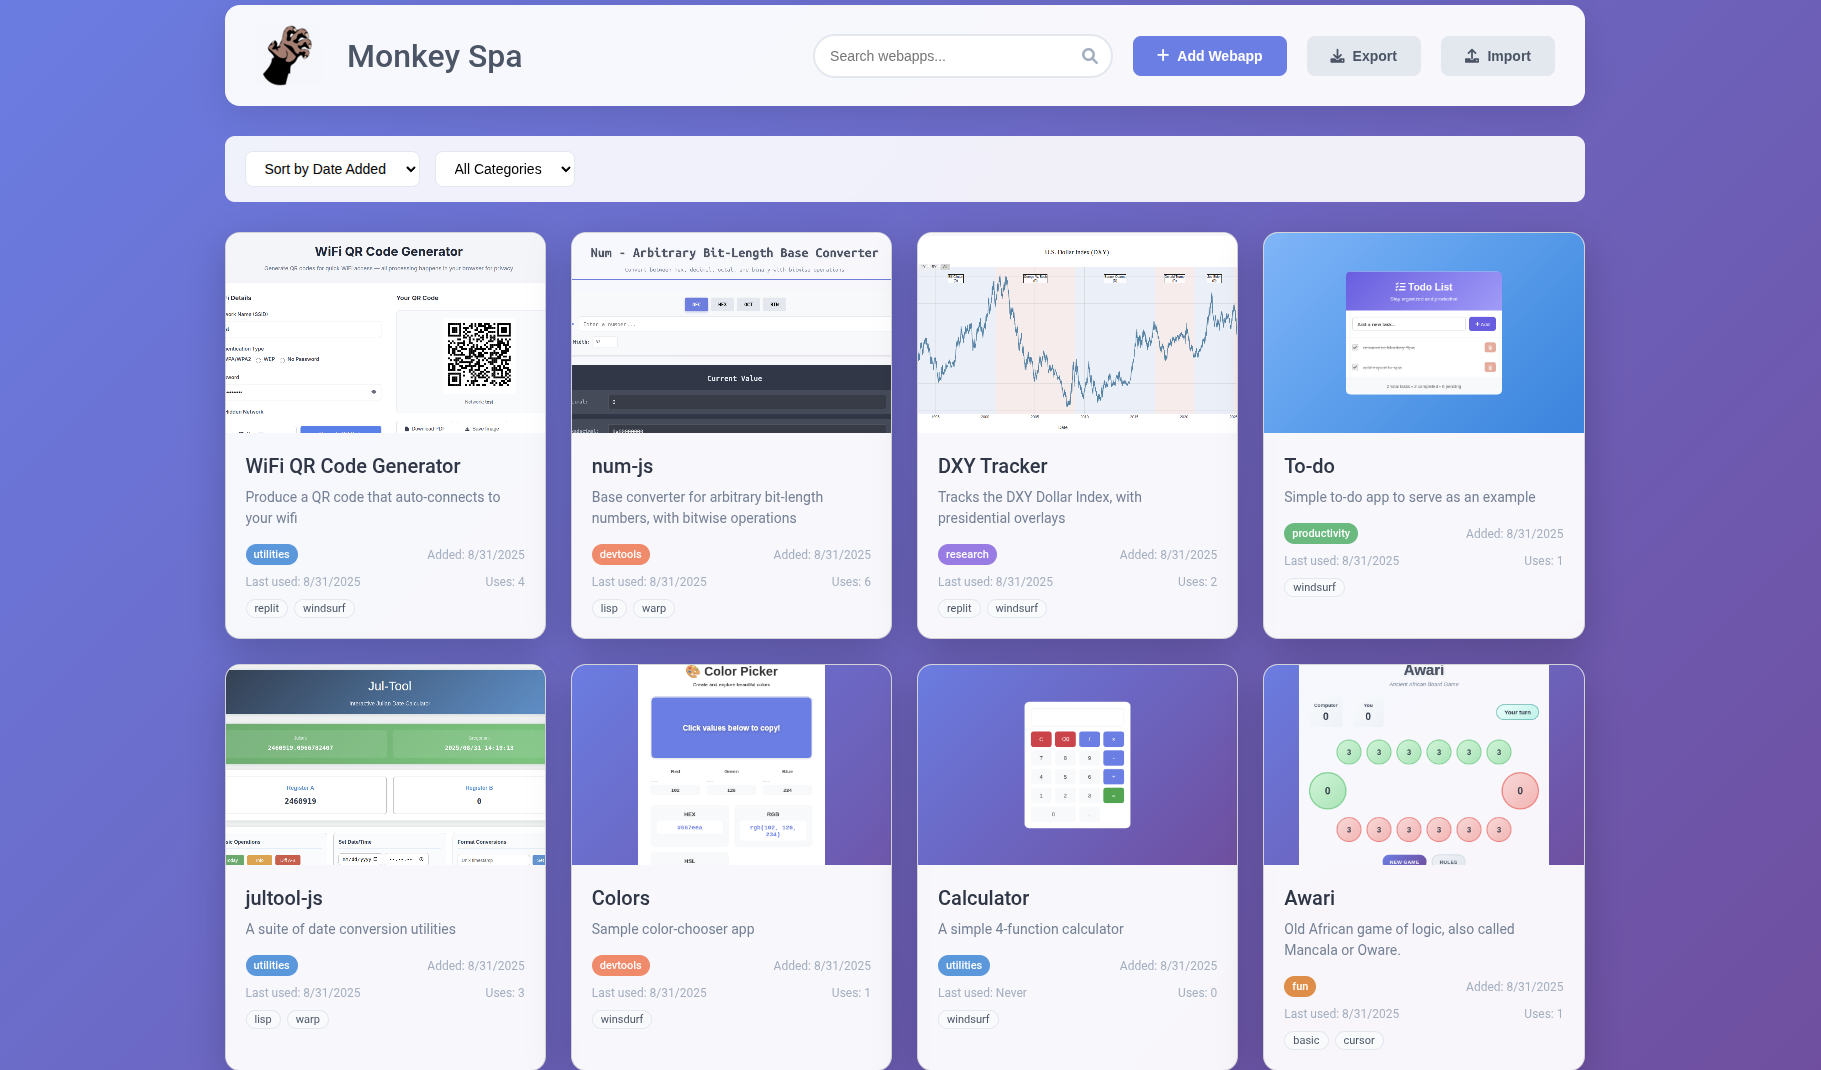
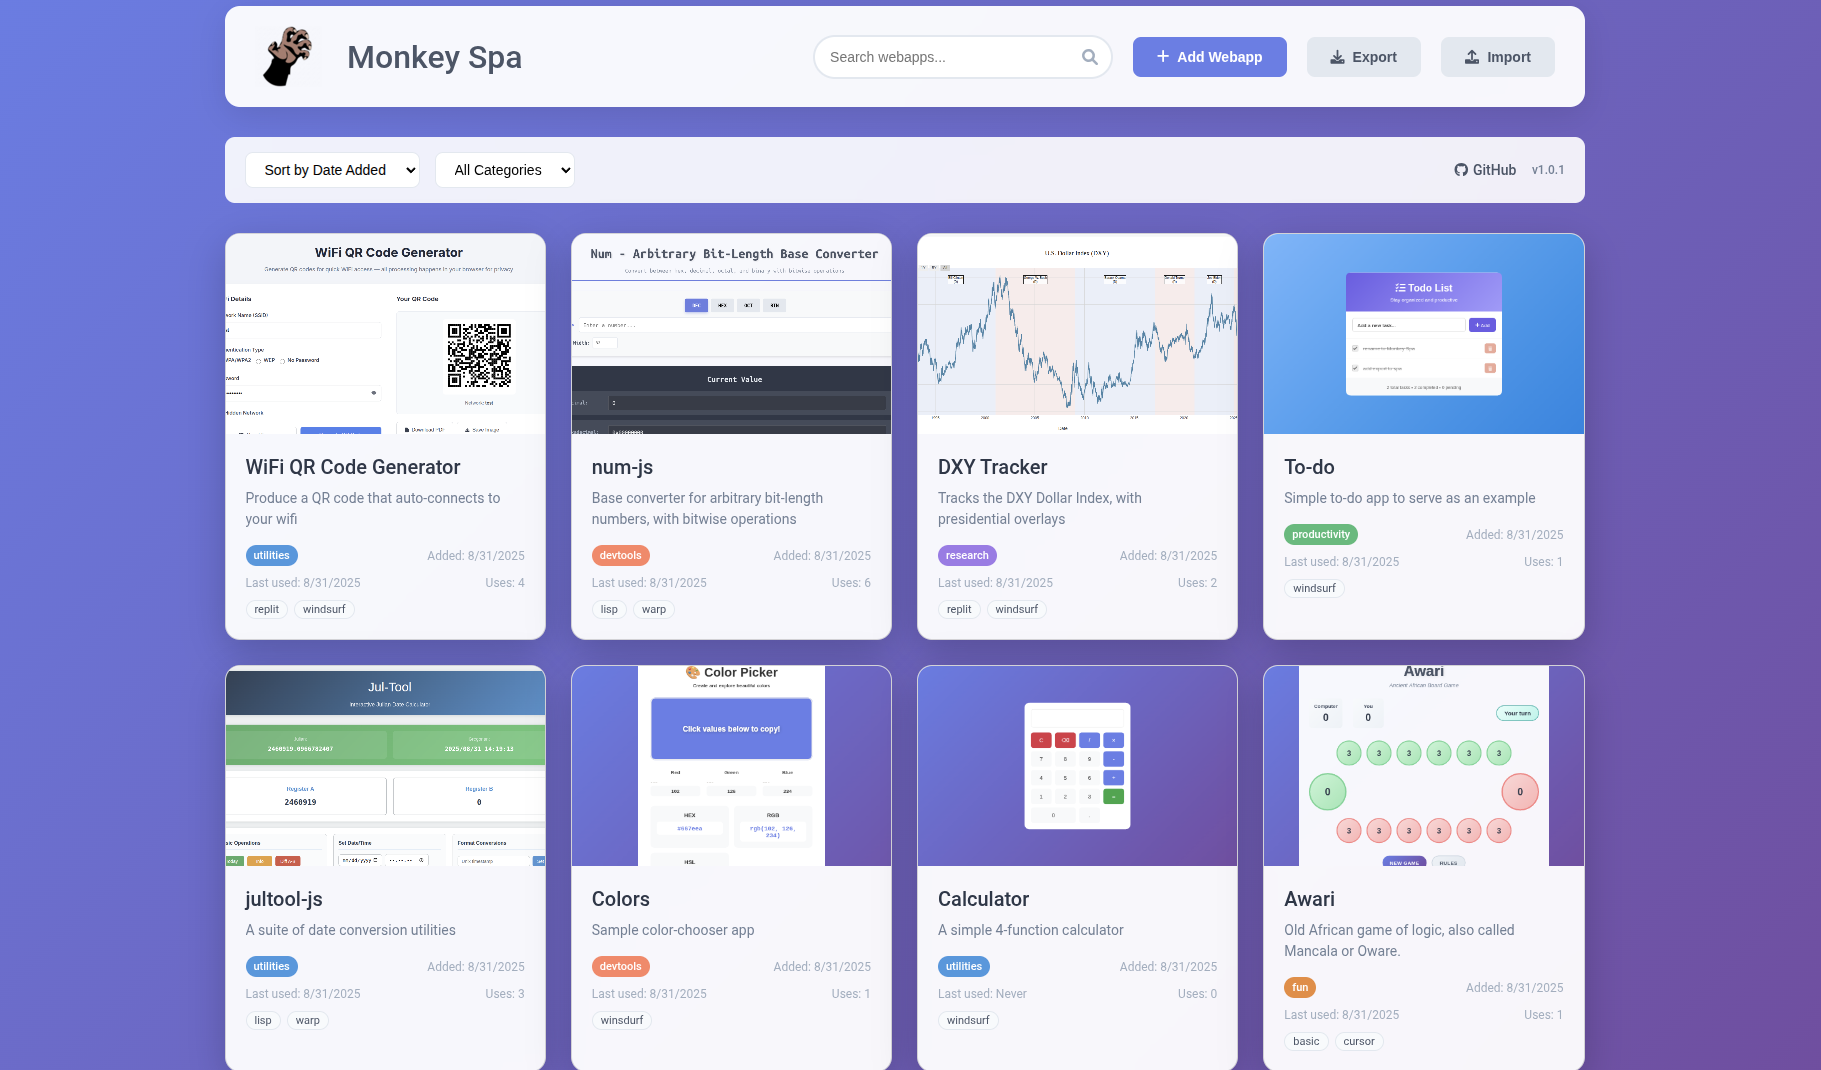
Add github link, update screenshot

diff --git a/monkey-spa.html b/monkey-spa.html
@@ -90,12 +90,45 @@ h1 img {
 
 .filters {
     display: flex;
-    gap: 15px;
+    justify-content: space-between;
+    align-items: center;
     margin-bottom: 30px;
     background: rgba(255, 255, 255, 0.9);
     padding: 15px 20px;
     border-radius: 10px;
     backdrop-filter: blur(10px);
+}
+
+.filter-controls {
+    display: flex;
+    gap: 15px;
+}
+
+.version-info {
+    display: flex;
+    align-items: center;
+    gap: 15px;
+}
+
+.github-link {
+    color: #4a5568;
+    text-decoration: none;
+    font-size: 14px;
+    font-weight: 500;
+    display: flex;
+    align-items: center;
+    gap: 5px;
+    transition: color 0.3s ease;
+}
+
+.github-link:hover {
+    color: #667eea;
+}
+
+.version-number {
+    color: #718096;
+    font-size: 12px;
+    font-weight: 500;
 }
 
 .filter-select {
@@ -553,6 +586,17 @@ h1 img {
     
     .filters {
         flex-direction: column;
+        gap: 15px;
+    }
+    
+    .filter-controls {
+        flex-direction: column;
+        width: 100%;
+    }
+    
+    .version-info {
+        justify-content: center;
+        width: 100%;
     }
     
     .form-actions {
@@ -600,20 +644,28 @@ h1 img {
         </header>
 
         <div class="filters">
-            <select id="sortSelect" class="filter-select">
-                <option value="dateAdded">Sort by Date Added</option>
-                <option value="name">Sort by Name</option>
-                <option value="lastUsed">Sort by Last Used</option>
-            </select>
-            <select id="categoryFilter" class="filter-select">
-                <option value="">All Categories</option>
-		<option value="devtools">Dev Tools</option>
-		<option value="research">Research</option>
-                <option value="productivity">Productivity</option>
-                <option value="utilities">Utilities</option>
-                <option value="fun">Fun</option>
-                <option value="other">Other</option>
-            </select>
+            <div class="filter-controls">
+                <select id="sortSelect" class="filter-select">
+                    <option value="dateAdded">Sort by Date Added</option>
+                    <option value="name">Sort by Name</option>
+                    <option value="lastUsed">Sort by Last Used</option>
+                </select>
+                <select id="categoryFilter" class="filter-select">
+                    <option value="">All Categories</option>
+		    <option value="devtools">Dev Tools</option>
+		    <option value="research">Research</option>
+                    <option value="productivity">Productivity</option>
+                    <option value="utilities">Utilities</option>
+                    <option value="fun">Fun</option>
+                    <option value="other">Other</option>
+                </select>
+            </div>
+            <div class="version-info">
+                <a href="https://github.com/jlowder/MonkeySpa" target="_blank" class="github-link">
+                    <i class="fab fa-github"></i> GitHub
+                </a>
+                <span class="version-number">v1.0.1</span>
+            </div>
         </div>
 
         <div id="webappGrid" class="webapp-grid">
